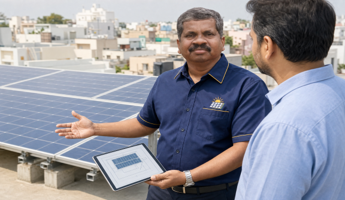
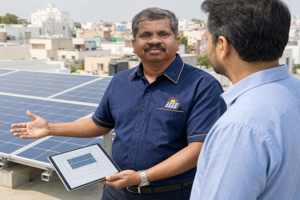
Fixed Approach section image positioning and parallax issues
- Fixed Image 2 vertical shift and cropping issue
- Removed parallax effect from Image 2 to keep it constant
- Both images now use natural dimensions without calculated height
- Added align-self:start to Image 2 for proper grid alignment
- Reduced figcaption top padding from 34px to 18px
- Added position:relative to both image containers for caption positioning
- Images now stay constant during scroll (no vertical movement)
- No empty space above images, no bottom cropping
- Both images properly aligned with their content

Generated with [Devin](https://devin.ai)

diff --git a/index.html b/index.html
@@ -446,6 +446,7 @@
     box-shadow:0 22px 48px -18px rgba(14,27,61,0.45);
     display:none;
     position:relative;
+    align-self:start;
   }
   .approach-photo-left img{
     width:100%; height:auto; object-fit:contain;
@@ -455,7 +456,7 @@
   .approach-photo-left figcaption{
     position:absolute; left:0; right:0; bottom:0;
     background:linear-gradient(to top, rgba(14,27,61,0.92), transparent);
-    color:#fff; font-size:12.5px; padding:34px 16px 12px; font-weight:500;
+    color:#fff; font-size:12.5px; padding:18px 16px 12px; font-weight:500;
   }
   .approach-photo{
     position:relative; border-radius:14px; overflow:hidden;
@@ -1780,9 +1781,6 @@
   if(heroPhoto && heroSection) parallaxLayers.push({el:heroPhoto, section:heroSection, rate:0.15});
   if(heroGlow && heroSection) parallaxLayers.push({el:heroGlow, section:heroSection, rate:0.25});
   if(finalPhoto && finalSection) parallaxLayers.push({el:finalPhoto, section:finalSection, rate:0.18});
-  var approachPhotoLeft = document.querySelector('.approach-photo-left img');
-  var approachFig = document.querySelector('.approach-photo-left');
-  if(approachPhotoLeft && approachFig) parallaxLayers.push({el:approachPhotoLeft, section:approachFig, rate:0.12});
 
   function onScrollEffects(){
     var docHeight = document.documentElement.scrollHeight - window.innerHeight;
@@ -1960,10 +1958,9 @@
       var naturalHeight = this.naturalHeight;
       var maxWidth = 500;
       var calculatedWidth = Math.min(naturalWidth, maxWidth);
-      var calculatedHeight = (naturalHeight / naturalWidth) * calculatedWidth;
       
       approachPhotoHeaderContainer.style.width = calculatedWidth + 'px';
-      approachPhotoHeaderContainer.style.height = calculatedHeight + 'px';
+      approachPhotoHeaderContainer.style.height = 'auto';
       approachPhotoHeaderContainer.style.display = 'block';
     };
     if(approachPhotoHeader.complete) approachPhotoHeader.onload();
@@ -1975,10 +1972,9 @@
       var naturalHeight = this.naturalHeight;
       var availableWidth = 400;
       var calculatedWidth = Math.min(naturalWidth, availableWidth);
-      var calculatedHeight = (naturalHeight / naturalWidth) * calculatedWidth;
       
       approachPhotoLeftContainer.style.width = calculatedWidth + 'px';
-      approachPhotoLeftContainer.style.height = calculatedHeight + 'px';
+      approachPhotoLeftContainer.style.height = 'auto';
       approachPhotoLeftContainer.style.display = 'block';
     };
     if(approachPhotoLeft.complete) approachPhotoLeft.onload();
